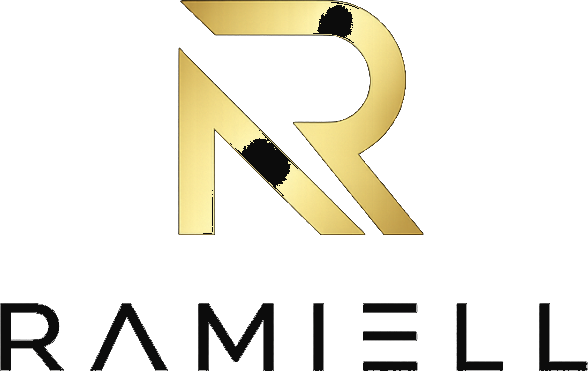
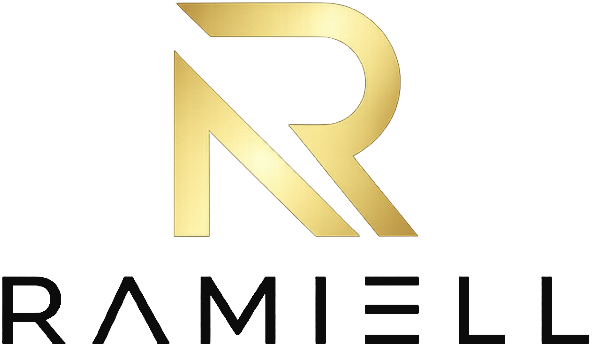
fix(brand): remover fundo preto do icone e monograma RAMIELL com desmatte transparente

diff --git a/index.html b/index.html
@@ -15,8 +15,9 @@
     </script>
     <!-- End Google Tag Manager -->
     <meta charset="UTF-8" />
-    <link rel="icon" type="image/png" href="/brand/ramiell-logo.png" />
-    <link rel="apple-touch-icon" href="/brand/ramiell-logo.png" />
+    <link rel="icon" type="image/x-icon" href="/favicon.ico" />
+    <link rel="icon" type="image/png" href="/brand/ramiell-monogram.png" />
+    <link rel="apple-touch-icon" href="/apple-touch-icon.png" />
     <meta name="viewport" content="width=device-width, initial-scale=1.0" />
     <title>RAMIELL | Desenvolvimento de Sites, Sistemas &amp; Experiências Digitais</title>
     <meta name="description" content="RAMIELL - Desenvolvimento de sites de alto padrão, sistemas personalizados, aplicações web e experiências digitais exclusivas. Vai de Ramiell." />
@@ -27,7 +28,7 @@
     <meta property="og:url" content="https://ramiell.com/" />
     <meta property="og:title" content="RAMIELL | Desenvolvimento de Sites, Sistemas &amp; Experiências Digitais" />
     <meta property="og:description" content="RAMIELL - Desenvolvimento de sites de alto padrão, sistemas personalizados, aplicações web e experiências digitais exclusivas. Vai de Ramiell." />
-    <meta property="og:image" content="https://ramiell.com/brand/ramiell-logo.png" />
+    <meta property="og:image" content="https://ramiell.com/brand/ramiell-og.png" />
     <meta property="og:site_name" content="RAMIELL" />
 
     <!-- Twitter Card -->
@@ -35,7 +36,7 @@
     <meta name="twitter:url" content="https://ramiell.com/" />
     <meta name="twitter:title" content="RAMIELL | Desenvolvimento de Sites, Sistemas &amp; Experiências Digitais" />
     <meta name="twitter:description" content="RAMIELL - Desenvolvimento de sites de alto padrão, sistemas personalizados, aplicações web e experiências digitais exclusivas. Vai de Ramiell." />
-    <meta name="twitter:image" content="https://ramiell.com/brand/ramiell-logo.png" />
+    <meta name="twitter:image" content="https://ramiell.com/brand/ramiell-og.png" />
 
     <!-- Descoberta de Recursos por Agentes de IA e LLMs -->
     <link rel="agentic-resource-discovery" href="/.well-known/ai-catalog.json" />

diff --git a/src/components/SEO.jsx b/src/components/SEO.jsx
@@ -80,9 +80,9 @@ const SEO = ({ title, description, keywords, image, url }) => {
     }
 
     // Imagem Open Graph
-    const finalImage = image || '/brand/ramiell-logo.png';
+    const finalImage = image || '/brand/ramiell-og.png';
     const absoluteImage = makeAbsoluteUrl(finalImage);
-    const absoluteFavicon = makeAbsoluteUrl('/brand/ramiell-logo.png');
+    const absoluteFavicon = makeAbsoluteUrl('/brand/ramiell-monogram.png');
 
     return (
         <Helmet>
